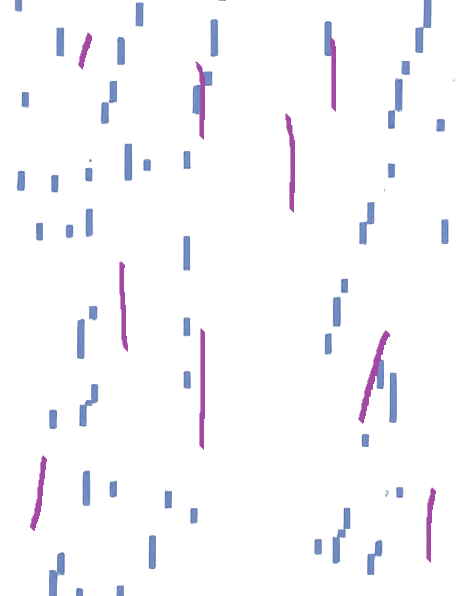
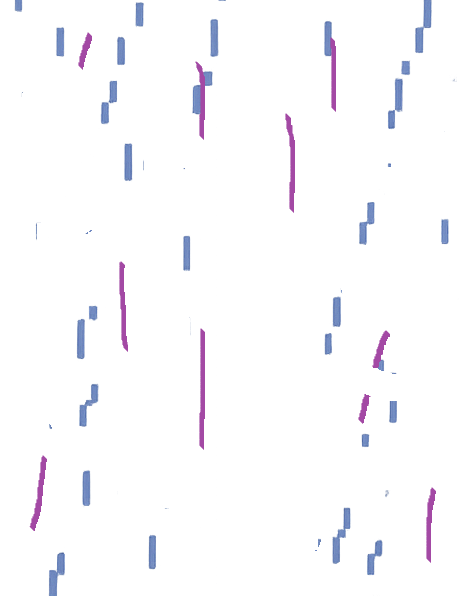
Game edit

diff --git a/src/app/journey/journeyGame.tsx b/src/app/journey/journeyGame.tsx
@@ -108,14 +108,14 @@ export default function JourneyGame() {
       />
       <div className="absolute inset-0 z-0 bg-black/40" />
 
-       {/* 🌧 Rain overlay (also z-0 or z-[1] if you want it above dark overlay) */}
+      {/* 🌧 Rain overlay: fixed px on small screens, % on sm+ */}
       <div
-        className="absolute pointer-events-none overflow-hidden z-0"
+        className={`
+          absolute pointer-events-none overflow-hidden z-0
+          left-[0px] top-[0px] w-[600px] h-[400px]
+          sm:left-[30.5%] sm:top-[0%] sm:w-[43.5%] sm:h-[47%]
+        `}
         style={{
-          left: "30%",
-          top: "1%",
-          width: "43%",
-          height: "46%",
           backgroundImage: `
             url('/journey/rain-streak.png'),
             url('/journey/rain-streak2.png')
@@ -124,111 +124,113 @@ export default function JourneyGame() {
           backgroundSize: "32px 64px, 48px 96px",
           animation: "rainScroll 5s linear infinite, rainScroll2 8s linear infinite",
           opacity: 0.8,
+          filter: "blur(2px)",
         }}
       />
 
       {/* FOREGROUND CONTENT (z-10) */}
-    <div className="relative z-10 min-h-screen w-full flex flex-col items-center py-6 gap-4">
-      {/* Title row */}
-      <div>
-        <h1 className="text-xl font-semibold text-white">My Journey</h1>
-      </div>
-      
-      {/* Buttons row */}
-      <div className="flex items-center gap-3">
-        <button
-          onClick={() => setPaused(p => !p)}
-          className="px-3 py-1 rounded-2xl border border-white text-white bg-transparent text-sm font-['Press_Start_2P']"
-        >
-          {paused ? "Resume" : "Pause (P)"}
-        </button>
-        <button
-          onClick={() => setShowTouch(s => !s)}
-          className="px-3 py-1 rounded-2xl border border-white text-white bg-transparent text-sm font-['Press_Start_2P']"
-        >
-          {showTouch ? "Hide" : "Show"} Touch
-        </button>
-        <button
-          onClick={() => setDebug(d => !d)}
-          className="px-3 py-1 rounded-2xl border border-white text-white bg-transparent text-sm font-['Press_Start_2P']"
-        >
-          Debug: {debug ? "On" : "Off"}
-        </button>
-      </div>
+      <div className="relative z-10 min-h-screen w-full flex flex-col items-center py-6 gap-4">
+        {/* Title row */}
+        <div>
+          <h1 className="text-xl font-semibold text-white">My Journey</h1>
+        </div>
+        
+        {/* Buttons row */}
+        <div className="flex items-center gap-3">
+          <button
+            onClick={() => setPaused(p => !p)}
+            className="px-3 py-1 rounded-2xl border border-white text-white bg-transparent text-sm font-['Press_Start_2P']"
+          >
+            {paused ? "Resume" : "Pause (P)"}
+          </button>
+          <button
+            onClick={() => setShowTouch(s => !s)}
+            className="px-3 py-1 rounded-2xl border border-white text-white bg-transparent text-sm font-['Press_Start_2P']"
+          >
+            {showTouch ? "Hide" : "Show"} Touch
+          </button>
+          <button
+            onClick={() => setDebug(d => !d)}
+            className="px-3 py-1 rounded-2xl border border-white text-white bg-transparent text-sm font-['Press_Start_2P']"
+          >
+            Debug: {debug ? "On" : "Off"}
+          </button>
+        </div>
 
-      {/* PSP FRAME WRAPPER */}
-      <div
-        style={{
-          position: "relative",
-          width: "min(100%, 1000px)",
-          aspectRatio: `${frameW} / ${frameH}`,
-        }}
-      >
+        {/* PSP FRAME WRAPPER */}
         <div
           style={{
-            position: "absolute",
-            left: `${leftPct}%`,
-            top: `${topPct}%`,
-            width: `${wPct}%`,
-            height: `${hPct}%`,
-            overflow: "hidden",
+            position: "relative",
+            width: "min(100%, 1000px)",
+            aspectRatio: `${frameW} / ${frameH}`,
           }}
         >
-          <canvas
-            ref={canvasRef}
-            width={VIEW.width}
-            height={VIEW.height}
-            style={{ width: "100%", height: "100%", display: "block" }}
+          <div
+            style={{
+              position: "absolute",
+              left: `${leftPct}%`,
+              top: `${topPct}%`,
+              width: `${wPct}%`,
+              height: `${hPct}%`,
+              overflow: "hidden",
+            }}
+          >
+            <canvas
+              ref={canvasRef}
+              width={VIEW.width}
+              height={VIEW.height}
+              style={{ width: "100%", height: "100%", display: "block" }}
+            />
+          </div>
+
+          <img
+            src="/psp/psp_frame.png"
+            alt="PSP frame"
+            style={{
+              position: "absolute",
+              inset: 0,
+              width: "100%",
+              height: "100%",
+              objectFit: "cover",
+              pointerEvents: "none",
+              userSelect: "none",
+            }}
           />
         </div>
 
-        <img
-          src="/psp/psp_frame.png"
-          alt="PSP frame"
-          style={{
-            position: "absolute",
-            inset: 0,
-            width: "100%",
-            height: "100%",
-            objectFit: "cover",
-            pointerEvents: "none",
-            userSelect: "none",
-          }}
-        />
+        {showTouch && (
+          <div className="flex gap-6">
+            <TouchButton
+              iconSrc="/controls/left.png"
+              label="Move left"
+              onPress={(held) => ((window as any)._leftHeld = held)}
+            />
+            <TouchButton
+              iconSrc="/controls/right.png"
+              label="Move right"
+              onPress={(held) => ((window as any)._rightHeld = held)}
+            />
+            <TouchButton
+              iconSrc="/controls/jump.png"
+              label="Jump"
+              onPress={(held) => ((window as any)._jumpHeld = held)}
+            />
+          </div>
+        )}
+
+        {/* Controls table */}
+        <div className="text-sm text-white font-['Press_Start_2P']">
+          <div className="grid grid-cols-2 gap-x-6 gap-y-2 border border-white rounded-md p-3">
+            <span>A / ←</span>      <span>Move left</span>
+            <span>D / →</span>      <span>Move right</span>
+            <span>Space / ↑</span>  <span>Jump</span>
+            <span>Enter</span>      <span>Restart</span>
+            <span>P</span>          <span>Pause</span>
+          </div>
+        </div>
       </div>
 
-      {showTouch && (
-        <div className="flex gap-6">
-          <TouchButton
-            iconSrc="/controls/left.png"
-            label="Move left"
-            onPress={(held) => ((window as any)._leftHeld = held)}
-          />
-          <TouchButton
-            iconSrc="/controls/right.png"
-            label="Move right"
-            onPress={(held) => ((window as any)._rightHeld = held)}
-          />
-          <TouchButton
-            iconSrc="/controls/jump.png"
-            label="Jump"
-            onPress={(held) => ((window as any)._jumpHeld = held)}
-          />
-        </div>
-      )}
-
-      {/* Controls table */}
-      <div className="text-sm text-white font-['Press_Start_2P']">
-        <div className="grid grid-cols-2 gap-x-6 gap-y-2 border border-white rounded-md p-3">
-          <span>A / ←</span>      <span>Move left</span>
-          <span>D / →</span>      <span>Move right</span>
-          <span>Space / ↑</span>  <span>Jump</span>
-          <span>Enter</span>      <span>Restart</span>
-          <span>P</span>          <span>Pause</span>
-        </div>
-      </div>
-    </div>
-       {/* keyframes */}
+      {/* keyframes */}
       <style jsx global>{`
         @keyframes rainScroll {
           from { background-position: 0 -100%; }

diff --git a/src/components/ShootingStars.tsx b/src/components/ShootingStars.tsx
@@ -1,0 +1,68 @@
+// components/ShootingStars.tsx
+'use client';
+import { useEffect, useState } from 'react';
+
+interface Star {
+  id: number;
+  top: number;
+  left: number;
+}
+
+export default function ShootingStars() {
+  const [stars, setStars] = useState<Star[]>([]);
+
+  useEffect(() => {
+    const interval = setInterval(() => {
+      setStars((prev) => [
+        ...prev,
+        {
+          id: Date.now(),
+          top: Math.random() * 30, // spawn in upper 30% of screen
+          left: Math.random() * 100, // anywhere across screen width
+        },
+      ]);
+    }, 1000); // new star every ~3s
+
+    return () => clearInterval(interval);
+  }, []);
+
+  const handleEnd = (id: number) =>
+    setStars((prev) => prev.filter((s) => s.id !== id));
+
+  return (
+    <div className="absolute inset-0 overflow-hidden pointer-events-none">
+      {stars.map((star) => (
+        <span
+          key={star.id}
+          className="shooting-star"
+          onAnimationEnd={() => handleEnd(star.id)}
+          style={{
+            top: `${star.top}vh`,
+            left: `${star.left}vw`,
+          }}
+        />
+      ))}
+      <style jsx>{`
+        .shooting-star {
+          position: absolute;
+          width: 100px;
+          height: 2px;
+          background: linear-gradient(to right, white, transparent);
+          transform: rotate(-45deg); /* aligns with movement */
+          animation: shoot 1.0s ease-out forwards;
+        }
+
+        @keyframes shoot {
+          from {
+            opacity: 1;
+            transform: translate(0, 0) rotate(-45deg);
+          }
+          to {
+            opacity: 0;
+            transform: translate(-500px, 500px) rotate(-45deg);
+          }
+        }
+      `}</style>
+    </div>
+  );
+}

diff --git a/src/app/page.tsx b/src/app/page.tsx
@@ -1,19 +1,23 @@
 'use client';
 
 import ChatBot from '@/components/ChatBot';
+import ShootingStars from '@/components/ShootingStars';
 
 export default function Home() {
   return (
     <div
-      className="min-h-screen bg-[#0c0e1c] bg-cover bg-bottom"
+      className="relative min-h-screen bg-[#0c0e1c] bg-cover bg-bottom"
       style={{ backgroundImage: "url('/bg/bg-night-pixel.png')" }}
     >
-      <main className="flex flex-col items-center justify-center min-h-screen bg-black/60 p-4">
+      <ShootingStars />
+      <main className="relative z-10 flex flex-col items-center justify-center min-h-screen bg-black/60 p-4">
         <h1 className="text-sm font-['Press_Start_2P'] text-white mb-6 tracking-tight drop-shadow-[1px_1px_0_rgba(0,0,0,0.8)]">
           ▶ Say Hello to Daniel-Bot
         </h1>
         <ChatBot />
+        
       </main>
     </div>
   );
 }
+
